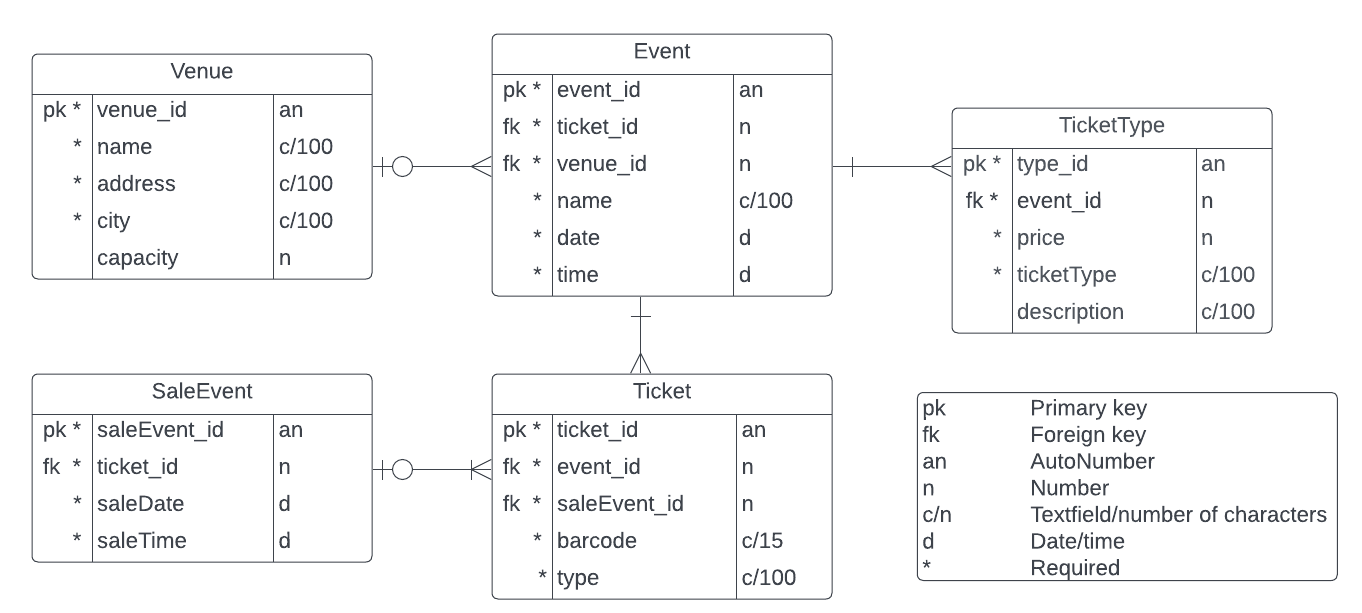
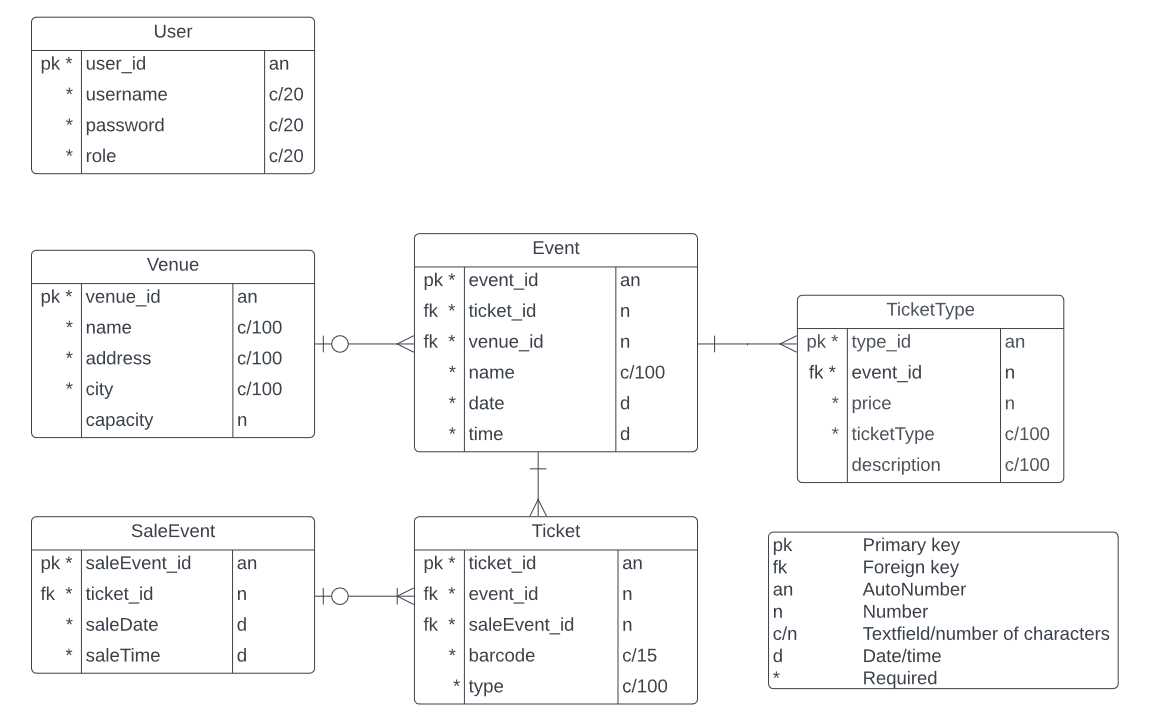
Added User with repo and rest, imports to DetailsService, updates to README

diff --git a/TicketGuru/src/main/java/kkvvsolutions/TicketGuru/web/RestUserController.java b/TicketGuru/src/main/java/kkvvsolutions/TicketGuru/web/RestUserController.java
@@ -1,0 +1,89 @@
+package kkvvsolutions.TicketGuru.web;
+
+import java.util.ArrayList;
+import java.util.List;
+import java.util.Optional;
+
+import org.springframework.beans.factory.annotation.Autowired;
+import org.springframework.http.HttpStatus;
+import org.springframework.http.ResponseEntity;
+import org.springframework.web.bind.annotation.DeleteMapping;
+import org.springframework.web.bind.annotation.GetMapping;
+import org.springframework.web.bind.annotation.PathVariable;
+import org.springframework.web.bind.annotation.PostMapping;
+import org.springframework.web.bind.annotation.PutMapping;
+import org.springframework.web.bind.annotation.RequestBody;
+import org.springframework.web.bind.annotation.RequestMapping;
+import org.springframework.web.bind.annotation.RestController;
+
+import jakarta.validation.Valid;
+import kkvvsolutions.TicketGuru.domain.User;
+import kkvvsolutions.TicketGuru.domain.repository.UserRepository;
+
+@RestController
+@RequestMapping("/api")
+public class RestUserController {
+	
+	@Autowired
+	private UserRepository userRepository;
+	
+	@GetMapping("/users")
+	public ResponseEntity<List<User>> getAllUsers() {
+		try {
+			List<User> users = new ArrayList<>();
+			userRepository.findAll().forEach(users::add);
+			if(users.isEmpty()) {
+				return new ResponseEntity<>(HttpStatus.NO_CONTENT);
+			}
+			return new ResponseEntity<>(users, HttpStatus.OK);
+		} catch (Exception e) {
+			return new ResponseEntity<>(null, HttpStatus.BAD_REQUEST);
+		}
+	}
+	
+	@GetMapping("/users/{id}")
+	public ResponseEntity<User> getUserById(@PathVariable("id") Long user_id) {
+		Optional<User> userData = userRepository.findById(user_id);
+		if(userData.isPresent()) {
+			return new ResponseEntity<>(userData.get(), HttpStatus.OK);
+		} else {
+			return new ResponseEntity<>(HttpStatus.NOT_FOUND);
+		}
+	}
+	
+	@PostMapping("/users")
+	public ResponseEntity<User> createUser(@Valid @RequestBody User user) {
+		try {
+			User _user = userRepository
+					.save(new User(user.getUsername(), user.getPassword(), user.getRole()));
+			return new ResponseEntity<>(_user, HttpStatus.CREATED);
+		} catch (Exception e) {
+			return new ResponseEntity<>(null, HttpStatus.BAD_REQUEST);
+		}
+	}
+	
+	@PutMapping("users/{id}")
+	public ResponseEntity<User> updateUser(@PathVariable("id") Long user_id, @Valid @RequestBody User user) {
+		Optional<User> userData = userRepository.findById(user_id);
+		if(userData.isPresent()) {
+			User _user = userData.get();
+			_user.setUsername(user.getUsername());
+			_user.setPassword(user.getPassword());
+			_user.setRole(user.getRole());
+			
+			return new ResponseEntity<>(userRepository.save(_user), HttpStatus.OK);
+		} else {
+			return new ResponseEntity<>(HttpStatus.NOT_FOUND);
+		}
+	}
+	
+	@DeleteMapping("/users/{id}")
+	public ResponseEntity<HttpStatus> deleteUser(@PathVariable("id") Long user_id) {
+		try {
+			userRepository.deleteById(user_id);
+			return new ResponseEntity<>(HttpStatus.NO_CONTENT);
+		} catch (Exception e) {
+			return new ResponseEntity<>(HttpStatus.NOT_FOUND);
+		}
+	}
+}

diff --git a/TicketGuru/src/main/java/kkvvsolutions/TicketGuru/domain/User.java b/TicketGuru/src/main/java/kkvvsolutions/TicketGuru/domain/User.java
@@ -1,0 +1,91 @@
+package kkvvsolutions.TicketGuru.domain;
+
+import org.springframework.security.crypto.bcrypt.BCryptPasswordEncoder;
+
+import jakarta.persistence.Column;
+import jakarta.persistence.Entity;
+import jakarta.persistence.GeneratedValue;
+import jakarta.persistence.GenerationType;
+import jakarta.persistence.Id;
+import jakarta.persistence.Transient;
+import jakarta.validation.constraints.NotNull;
+import jakarta.validation.constraints.Size;
+
+@Entity
+public class User {
+	
+	@Id
+	@GeneratedValue(strategy = GenerationType.IDENTITY)
+	@Column(name = "userId", nullable = false, updatable = false)
+	private Long userId;
+	
+	@NotNull(message = "Username cannot be null")
+	@Size(min = 1, max = 20)
+	@Column(name = "username", nullable = false)
+	private String username;
+	
+	@NotNull(message = "Password cannot be null")
+	@Size(min = 1, max = 20)
+	@Column(name = "password", nullable = false)
+	private String password;
+	
+	@NotNull(message = "Role cannot be null")
+	@Size(min = 1, max = 20)
+	@Column(name = "role", nullable = false)
+	private String role;
+
+	@Transient
+	private BCryptPasswordEncoder passwordEncoder = new BCryptPasswordEncoder();
+	
+	public User() {
+		super();
+	}
+
+	public User(String username, String password, String role) {
+		super();
+		this.username = username;
+		this.password = password;
+		this.role = role;
+	}
+
+	public Long getUserId() {
+		return userId;
+	}
+
+	public void setUserId(Long userId) {
+		this.userId = userId;
+	}
+
+	public String getUsername() {
+		return username;
+	}
+
+	public void setUsername(String username) {
+		this.username = username;
+	}
+
+	public String getPassword() {
+		return password;
+	}
+
+	public void setPassword(String password) {
+		this.password = passwordEncoder.encode(password);
+	}
+	
+	
+
+	public String getRole() {
+		return role;
+	}
+
+	public void setRole(String role) {
+		this.role = role;
+	}
+
+	@Override
+	public String toString() {
+		return "User [userId=" + userId + ", username=" + username + ", password=" + password + ", role=" + role + "]";
+	}
+}
+
+	

diff --git a/TicketGuru/src/main/java/kkvvsolutions/TicketGuru/service/DetailsService.java b/TicketGuru/src/main/java/kkvvsolutions/TicketGuru/service/DetailsService.java
@@ -7,6 +7,9 @@ import org.springframework.security.core.userdetails.UserDetailsService;
 import org.springframework.security.core.userdetails.UsernameNotFoundException;
 import org.springframework.stereotype.Component;
 
+import kkvvsolutions.TicketGuru.domain.User;
+import kkvvsolutions.TicketGuru.domain.repository.UserRepository;
+
 @Component
 public class DetailsService implements UserDetailsService {
 
@@ -23,7 +26,7 @@ public class DetailsService implements UserDetailsService {
         return new org.springframework.security.core.userdetails.User(
                 user.getUsername(),
                 user.getPassword(),
-                AuthorityUtils.createAuthorityList(user.getRoles())
+                AuthorityUtils.createAuthorityList(user.getRole())
         );
     }
 }

diff --git a/TicketGuru/src/main/java/kkvvsolutions/TicketGuru/domain/repository/UserRepository.java b/TicketGuru/src/main/java/kkvvsolutions/TicketGuru/domain/repository/UserRepository.java
@@ -1,0 +1,11 @@
+package kkvvsolutions.TicketGuru.domain.repository;
+
+import org.springframework.data.repository.CrudRepository;
+
+import kkvvsolutions.TicketGuru.domain.User;
+
+public interface UserRepository extends CrudRepository<User, Long> {
+
+	User findByUsername(String username);
+
+}

diff --git a/README.md b/README.md
@@ -63,14 +63,26 @@ Tietokannan taulut tietoineen on kuvattu alla olevassa kaaviossa. Kaavion ohessa
 
 **Alla on jokaisen taulun tarkemmat kuvaukset.**
 
+ #### User
+ User-taulun sisältönä on järjestelmän käyttäjän tiedot.
+
+ | Kenttä      | Tyyppi       | Kuvaus                       |
+ | ----------- | -----------  | ---------------------------- |
+ | user_id     | Long PK      | Käyttäjän id, not null       |
+ | username    | varchar(20)  | Käyttäjän nimi, not null     |
+ | password    | varchar(20)  | Käyttäjän salasana, not null |
+ | role        | varchar(20)  | Käyttäjän rooli, not null    |
+
+ ---
+
  #### Event
  Event-taulun sisältönä on tapahtuman tiedot.
 
  | Kenttä      | Tyyppi       | Kuvaus                                                       |
  | ----------- | -----------  | ------------------------------------------------------------ |
- | eventId     | Long PK      | Tapahtuman id, not null                                      |
- | ticketId    | Long FK      | Tapahtuman lippu, viittaus Ticket-tauluun, not null          |
- | venueId     | Long FK	    | Tapahtuman tapahtumapaikka, viittaus Venue-tauluun, not null |
+ | event_id    | Long PK      | Tapahtuman id, not null                                      |
+ | ticket_id   | Long FK      | Tapahtuman lippu, viittaus Ticket-tauluun, not null          |
+ | venue_id    | Long FK	  | Tapahtuman tapahtumapaikka, viittaus Venue-tauluun, not null |
  | name        | varchar(100) | Tapahtuman nimi, not null                                    |
  | date        | dateTime     | Tapahtuman nimi, not null                                    |
  | time        | dateTime     | Tapahtuman nimi, not null                                    |
@@ -82,9 +94,9 @@ Tietokannan taulut tietoineen on kuvattu alla olevassa kaaviossa. Kaavion ohessa
 
  | Kenttä       | Tyyppi       | Kuvaus                                                            |
  | ------------ | -----------  | ----------------------------------------------------------------- |
- | ticketId     | Long PK      | Lipun id, not null                                                |
- | eventId      | Long FK      | Id tapahtumalle, johon lippu on, viittaus Event-tauluun, not null |
- | saleEventId  | Long FK	     | Myyntitapahtuman id, viittaus SaleEvent-tauluun, not null         |
+ | ticket_id    | Long PK      | Lipun id, not null                                                |
+ | event_id     | Long FK      | Id tapahtumalle, johon lippu on, viittaus Event-tauluun, not null |
+ | saleEvent_id | Long FK	   | Myyntitapahtuman id, viittaus SaleEvent-tauluun, not null         |
  | barcode      | varchar(15)  | Lipun yksilöllinen viivakoodi, not null                           |
  | type         | varchar(100) | Lipputyypin nimi, not null                                        |
 
@@ -95,8 +107,8 @@ Tietokannan taulut tietoineen on kuvattu alla olevassa kaaviossa. Kaavion ohessa
 
  | Kenttä       | Tyyppi       | Kuvaus                                                                  |
  | ------------ | ------------ | ----------------------------------------------------------------------- |
- | typeId       | Long PK      | Lipputyypin id, not null                                                |
- | eventId      | Long FK      | Id tapahtumalle, johon lipputyyppi on, viittaus Event-tauluun, not null |
+ | type_id      | Long PK      | Lipputyypin id, not null                                                |
+ | event_id     | Long FK      | Id tapahtumalle, johon lipputyyppi on, viittaus Event-tauluun, not null |
  | price        | int          | Lipputyypin hinta, not null                                             |
  | ticketType   | varchar(100) | Asiakastyyppi, not null                                                 |
  | description  | varchar(100) | Lipputyypin kuvaus                                                      |
@@ -108,7 +120,7 @@ Tietokannan taulut tietoineen on kuvattu alla olevassa kaaviossa. Kaavion ohessa
 
  | Kenttä   | Tyyppi       | Kuvaus                               |
  | -------- | ------------ | ------------------------------------ |
- | venueId  | Long PK      | Tapahtumapaikan id, not null         |
+ | venue_id | Long PK      | Tapahtumapaikan id, not null         |
  | name     | varchar(100) | Tapahtumapaikan nimi, not null       |
  | address  | varchar(100) | Tapahtumapaikan katuosoite, not null |
  | city     | varchar(100) | Tapahtumapaikan kaupunki, not null   |
@@ -121,8 +133,8 @@ Tietokannan taulut tietoineen on kuvattu alla olevassa kaaviossa. Kaavion ohessa
 
  | Kenttä       | Tyyppi   | Kuvaus                                              |
  | ------------ | -------- | --------------------------------------------------- |
- | SaleEventId  | Long PK  | Myyntitapahtuman id, not null                       |
- | ticketId     | Long FK  | Tapahtuman lippu, viittaus Ticket-tauluun, not null |
+ | SaleEvent_id | Long PK  | Myyntitapahtuman id, not null                       |
+ | ticket_id    | Long FK  | Tapahtuman lippu, viittaus Ticket-tauluun, not null |
  | saleDate     | dateTime | Myyntitapahtuman päiväys, not null                  |
  | saleTime     | dateTime | Myyntitapahtuman kellonaika, not null               |
 
